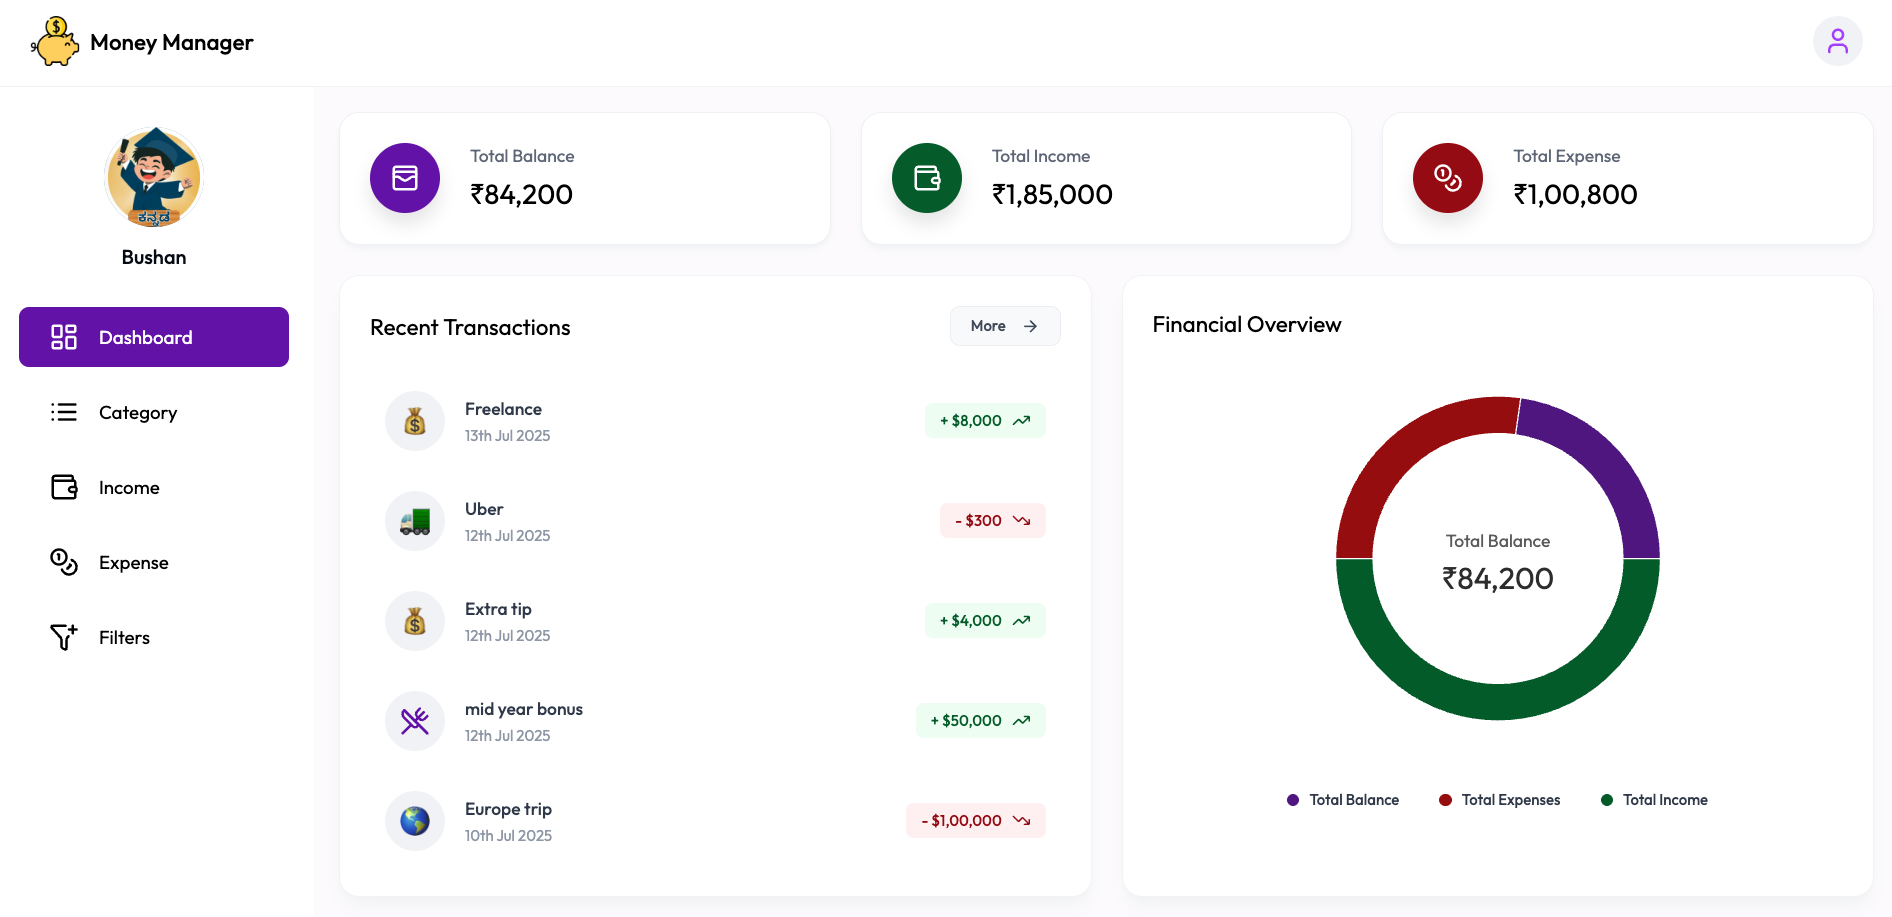
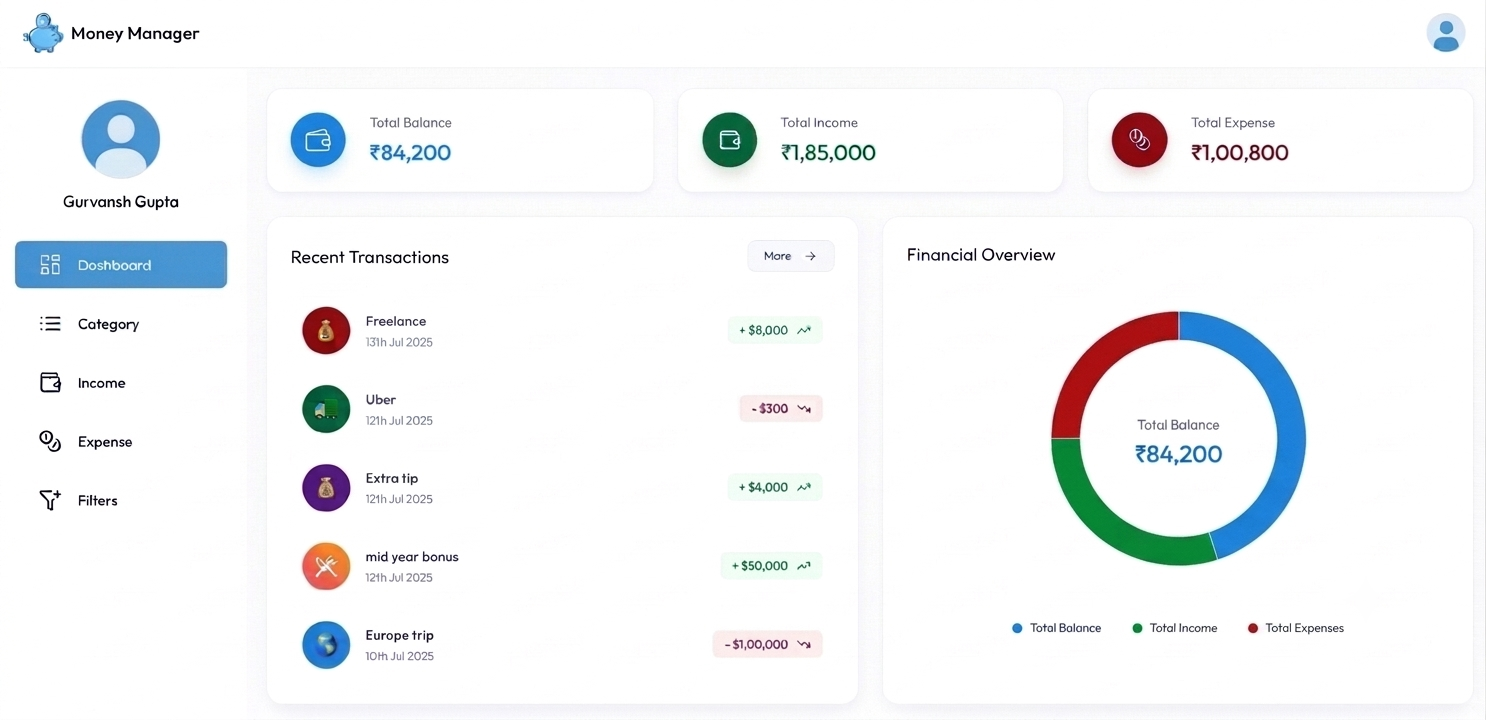
adding the assets and components

diff --git a/src/assets/assets.js b/src/assets/assets.js
@@ -1,0 +1,47 @@
+import logo from "./logo.png";
+import login_bg from "./login-bg.png";
+import landing from "./landing.png";
+import {Coins, FunnelPlus, LayoutDashboard, List, Wallet} from "lucide-react";
+
+export const assets = {
+    logo,
+    login_bg,
+    landing,
+}
+
+export const SIDE_BAR_DATA = [
+    {
+        id: "01",
+        label: "Dashboard",
+        icon: LayoutDashboard,
+        path: "/dashboard",
+    },
+
+     {
+        id: "02",
+        label: "Category",
+        icon: List,
+        path: "/category",
+    },
+
+     {
+        id: "03",
+        label: "Income",
+        icon: Wallet,
+        path: "/income",
+    },
+
+     {
+        id: "04",
+        label: "Expense",
+        icon: Coins,
+        path: "/expense",
+    },
+
+     {
+        id: "05",
+        label: "Filters",
+        icon: FunnelPlus,
+        path: "/filter",
+    },
+]
